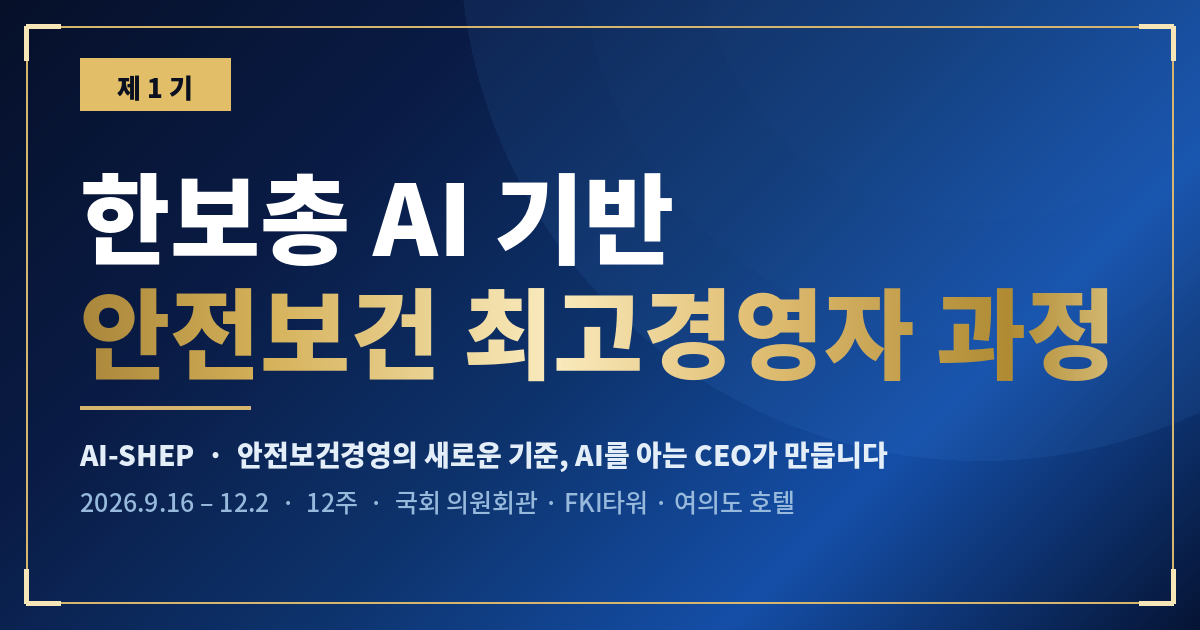
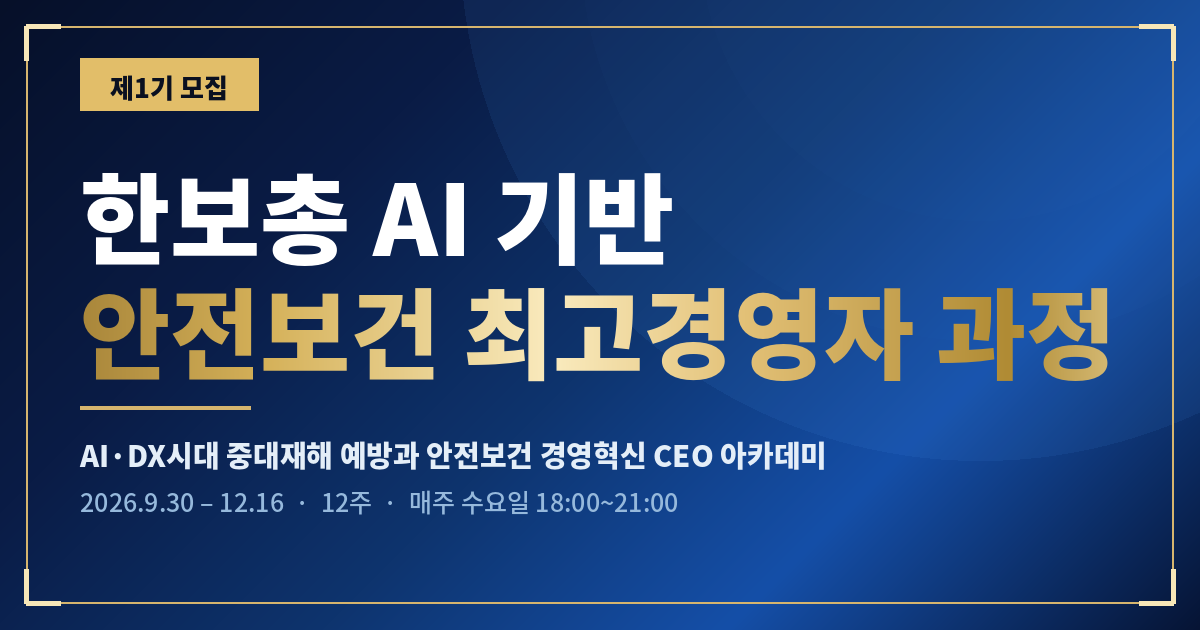
Add files via upload

diff --git a/index.html b/index.html
@@ -4,34 +4,36 @@
 <meta charset="UTF-8" />
 <meta name="viewport" content="width=device-width, initial-scale=1" />
 <title>AI SHEP 2026 | 제1기 한보총 AI 기반 안전보건 최고경영자 과정</title>
-<meta name="description" content="안전보건경영의 새로운 기준, AI를 아는 CEO가 만듭니다. 국회 정책 × AI 기술 × 안전보건 전문성을 연결한 차세대 CEO 아카데미. 2026.9.16~12.2, 12주 과정." />
+<meta name="description" content="안전보건경영의 새로운 기준, AI를 아는 CEO가 만듭니다. 국회 정책 × AI 기술 × 안전보건 전문성을 연결한 차세대 CEO 아카데미. 2026.9.30~12.16, 12주 과정." />
 <link rel="canonical" href="https://aishep-2026.vercel.app/" />
 <link rel="icon" type="image/png" href="/favicon.png" />
+<link rel="preload" as="font" type="font/woff2" href="/fonts/kopub-Bold.woff2" crossorigin />
+<link rel="preload" as="font" type="font/woff2" href="/fonts/kopub-Medium.woff2" crossorigin />
 <meta property="og:type" content="website" />
 <meta property="og:site_name" content="한보총 AI-SHEP" />
 <meta property="og:locale" content="ko_KR" />
 <meta property="og:url" content="https://aishep-2026.vercel.app/" />
 <meta property="og:title" content="제1기 한보총 AI 기반 안전보건 최고경영자 과정" />
-<meta property="og:description" content="AI-SHEP · 안전보건경영의 새로운 기준, AI를 아는 CEO가 만듭니다 · 2026.9.16~12.2 · 12주" />
+<meta property="og:description" content="AI-SHEP · 안전보건경영의 새로운 기준, AI를 아는 CEO가 만듭니다 · 2026.9.30~12.16 · 12주" />
 <meta property="og:image" content="https://aishep-2026.vercel.app/cover.png" />
 <meta property="og:image:width" content="1200" />
 <meta property="og:image:height" content="630" />
 <meta name="twitter:card" content="summary_large_image" />
 <meta name="twitter:title" content="제1기 한보총 AI 기반 안전보건 최고경영자 과정" />
-<meta name="twitter:description" content="AI-SHEP · 안전보건경영의 새로운 기준, AI를 아는 CEO가 만듭니다 · 2026.9.16~12.2 · 12주" />
+<meta name="twitter:description" content="AI-SHEP · 안전보건경영의 새로운 기준, AI를 아는 CEO가 만듭니다 · 2026.9.30~12.16 · 12주" />
 <meta name="twitter:image" content="https://aishep-2026.vercel.app/cover.png" />
 <link rel="stylesheet" as="style" crossorigin href="https://cdn.jsdelivr.net/gh/orioncactus/pretendard@v1.3.9/dist/web/variable/pretendardvariable-dynamic-subset.min.css" />
 <style>
   @font-face{
     font-family:"KoPubWorld Dotum";
-    src:url("https://cdn.jsdelivr.net/gh/CXZ7720/webfonts@main/fonts/KoPubWorldDotum/KoPubWorldDotumBold.woff2") format("woff2"),
-        url("https://cdn.jsdelivr.net/gh/CXZ7720/webfonts@main/fonts/KoPubWorldDotum/KoPubWorldDotumBold.woff") format("woff");
+    src:url("/fonts/kopub-Bold.woff2") format("woff2"),
+        url("https://cdn.jsdelivr.net/gh/CXZ7720/webfonts@main/fonts/KoPubWorldDotum/KoPubWorldDotumBold.woff2") format("woff2");
     font-weight:700;font-style:normal;font-display:swap;
   }
   @font-face{
     font-family:"KoPubWorld Dotum";
-    src:url("https://cdn.jsdelivr.net/gh/CXZ7720/webfonts@main/fonts/KoPubWorldDotum/KoPubWorldDotumMedium.woff2") format("woff2"),
-        url("https://cdn.jsdelivr.net/gh/CXZ7720/webfonts@main/fonts/KoPubWorldDotum/KoPubWorldDotumMedium.woff") format("woff");
+    src:url("/fonts/kopub-Medium.woff2") format("woff2"),
+        url("https://cdn.jsdelivr.net/gh/CXZ7720/webfonts@main/fonts/KoPubWorldDotum/KoPubWorldDotumMedium.woff2") format("woff2");
     font-weight:400 500;font-style:normal;font-display:swap;
   }
 
@@ -184,12 +186,6 @@
   @media(max-width:900px){.info{grid-template-columns:1fr}}
 
   /* curriculum */
-  .track-switch{display:inline-flex;border:1px solid var(--gline);flex-wrap:wrap;background:rgba(0,0,0,.2);max-width:100%}
-  .track-switch button{font-family:var(--font);font-weight:700;font-size:15.5px;background:transparent;color:#B4CBE0;
-    border:0;padding:14px 24px;cursor:pointer;transition:.25s}
-  .track-switch button + button{border-left:1px solid var(--gline)}
-  .track-switch button[aria-selected="true"]{background:linear-gradient(120deg,#F7E7B8,#D8B45A 50%,#A9822E);color:#0A1020}
-  .switch-note{font-size:14.5px;color:var(--dim-2);margin:14px 0 30px}
   .legend{display:flex;gap:22px;flex-wrap:wrap;margin-bottom:34px;font-size:14.5px;color:#B4CBE0}
   .legend i{display:inline-block;width:11px;height:11px;margin-right:9px}
   .legend .lp{background:#63B0EA}.legend .lt{background:#37CBAB}.legend .lc{background:#E6CE8E}
@@ -268,6 +264,7 @@
   .frow .k{font-size:clamp(15px,1.7vw,17.5px)}
   .frow .k small{display:block;font-size:14.5px;color:var(--dim);margin-top:4px}
   .frow .v{font-size:clamp(18px,2.2vw,23px);font-weight:700;white-space:nowrap}
+  .frow .v.acct{font-size:clamp(15px,1.75vw,19px);white-space:normal;text-align:right;color:var(--gold-l)}
   .apply-box{padding:clamp(28px,4vw,42px);text-align:center;position:relative;
     background:linear-gradient(155deg,rgba(79,195,247,.14),rgba(255,255,255,.03));
     border:1px solid rgba(120,180,255,.2);display:flex;flex-direction:column;justify-content:center}
@@ -342,7 +339,7 @@
     </h1>
     <div class="tag-en rise d2">AI-SHEP · AI SAFETY &amp; HEALTH EXECUTIVE PROGRAM</div>
 
-    <p class="hero-lead rise d3">사고 이후 대응이 아닌, 사고 이전 예측의 시대</p>
+    <p class="hero-lead rise d3">AI·DX시대 중대재해 예방과<br>안전보건 경영혁신 CEO 아카데미</p>
 
     <p class="hero-h2 rise d4">안전보건경영의 새로운 기준,<br>AI를 아는 CEO가 만듭니다</p>
 
@@ -359,7 +356,7 @@
           <path d="M28 6l17 7v14c0 12-7 19-17 23C18 46 11 39 11 27V13z"/>
           <path d="M20 30h4l3-8 4 14 3-6h4" stroke-linecap="round" stroke-linejoin="round"/>
         </svg>
-        <h3>AI·DX 기반<br>중대재해 예방</h3>
+        <h3>AI·DX 기반<br>중대재해 예방 전략</h3>
         <p>예측과 예방 중심의<br>안전경영 혁신</p>
       </article>
       <article class="pillar">
@@ -371,8 +368,8 @@
           <line x1="32" y1="27" x2="32" y2="43"/><line x1="38" y1="27" x2="38" y2="43"/>
           <line x1="11" y1="43" x2="45" y2="43"/><line x1="7" y1="49" x2="49" y2="49"/>
         </svg>
-        <h3>국회 정책<br>네트워크</h3>
-        <p>국회의원과 직접 교류<br>정책 제안 기회</p>
+        <h3>국가 정책과<br>산업현장의 연결</h3>
+        <p>현직 국회의원 · AI ·<br>안전보건 전문가 특강</p>
       </article>
       <article class="pillar">
         <svg class="pico" viewBox="0 0 56 56" fill="none" stroke="url(#pg)" stroke-width="2" aria-hidden="true">
@@ -411,7 +408,7 @@
       <div class="card">
         <span class="cap">운영 내용</span>
         <dl class="kv">
-          <dt>기간</dt><dd>2026. 9. 16.(수) ~ 12. 2.(수) 12주 과정</dd>
+          <dt>기간</dt><dd>2026. 9. 30.(수) ~ 12. 16.(수) 12주 과정</dd>
           <dt>시간</dt><dd>매주 수요일 18:00~21:00<br>(18:00~19:00 저녁식사)</dd>
           <dt>장소</dt><dd>호텔(여의도 소재), 국회 의원회관,<br>FKI타워(구 전경련회관) 등</dd>
           <dt>운영기관</dt><dd>(사)한국안전보건단체총연합회</dd>
@@ -438,14 +435,9 @@
     <div class="sec-head">
       <div class="eyebrow">12주 커리큘럼</div>
       <h2>한 주는 <span class="aq">국회</span>에서,<br>다음 주는 <span class="aq">산업 현장</span>에서</h2>
-      <p>정책 강의(국회 의원회관)와 기술 강의(FKI타워)가 번갈아 진행됨. 개강일 기준을 선택하면 주차별 일정 확인 가능.</p>
+      <p>정책 강의(국회 의원회관)와 기술 강의(FKI타워)가 번갈아 진행됨.</p>
     </div>
 
-    <div class="track-switch" role="tablist" aria-label="개강일 선택">
-      <button role="tab" id="tab-a" aria-selected="true" aria-controls="panel" data-track="a">9/16 개강안</button>
-      <button role="tab" id="tab-b" aria-selected="false" aria-controls="panel" data-track="b">9/30 개강안</button>
-    </div>
-    <p class="switch-note">개강일은 확정 시 별도 안내 예정.</p>
 
     <div class="legend">
       <span><i class="lp"></i>국회 의원회관 · 정책</span>
@@ -453,7 +445,7 @@
       <span><i class="lc"></i>호텔 · 기업체</span>
     </div>
 
-    <div class="timeline" id="panel" role="tabpanel" aria-labelledby="tab-a"></div>
+    <div class="timeline" id="panel"></div>
 
     <p class="cur-note">* 프로그램은 사정에 따라 변경될 수 있음. &nbsp;/&nbsp; ** 해외연수(일본)는 12월 또는 1월 중 별도 진행.</p>
   </div>
@@ -474,14 +466,14 @@
         <div class="srow"><div class="t au">21:00–22:00</div><div><h4>네트워킹</h4><p>원우 간 자유 교류</p></div></div>
       </div>
       <aside class="card">
-        <span class="cap">과정 구성</span>
-        <dl class="kv">
-          <dt>입학식</dt><dd>한보총 회장·국회의원 축사, 원우 소개</dd>
-          <dt>특강</dt><dd>국회의원 · AI 전문가 · 안전보건 전문가</dd>
-          <dt>산업시찰</dt><dd>안전보건 우수기업 시찰 1회</dd>
-          <dt>해외연수</dt><dd>일본 1회 (12월 또는 1월 중)</dd>
-          <dt>수료식</dt><dd>수료증 수여, 우수 수료자 시상</dd>
-        </dl>
+        <span class="cap">프로그램</span>
+        <ul class="qual">
+          <li>입학식 및 수료식</li>
+          <li>국회의원, AI 전문가, 안전보건 전문가 특강</li>
+          <li>국내 산업시찰 (1회)</li>
+          <li>해외 연수 (1회, 일본)</li>
+          <li>참여자 네트워크</li>
+        </ul>
       </aside>
     </div>
   </div>
@@ -555,16 +547,16 @@
     <div class="fees">
       <div class="fee-main">
         <div class="fee-hd">
-          <div class="n au">등록비 500만원</div>
+          <div class="n au">등록금 500만원</div>
           <div class="l">12주 정규 과정 · 만찬 · 국내 산업시찰 포함</div>
         </div>
         <div class="frow">
-          <div class="k">한보총 회원단체 20% 할인<small>회원단체 소속 임직원 적용</small></div>
-          <div class="v au">400만원</div>
+          <div class="k">해외연수비<small>일본 · 별도 납부</small></div>
+          <div class="v">150만원 별도</div>
         </div>
         <div class="frow">
-          <div class="k">해외연수비<small>일본 · 12월 또는 1월 중 · 별도 납부 가능</small></div>
-          <div class="v">150만원 별도</div>
+          <div class="k">납부 계좌<small>(사)한국안전보건단체총연합회</small></div>
+          <div class="v acct">우리은행 1005-804-786229</div>
         </div>
       </div>
       <aside class="apply-box">
@@ -609,7 +601,7 @@
 var P="국회 의원회관",T="FKI타워",H="호텔",C="기업체";
 var lectures={
   open:{side:"center",place:H,title:"입학식",details:["입학식 및 축사","과정 소개, 원우 소개"],who:"한보총 회장 · 국회의원"},
-  visit:{side:"center",place:C,title:"국내 산업시찰",details:["안전보건 우수기업 시찰","일정 변경: 10/16(금)~10/17(토) 진행"],who:""},
+  visit:{side:"center",place:C,title:"국내 산업시찰",details:["안전보건 우수기업 시찰","일정은 별도 안내"],who:""},
   policy1:{side:"policy",place:P,title:"대한민국 산업안전보건 정책의 미래",details:["국회 환경노동위원회 정책과제","산업현장 안전규제 전망"],who:"국회 환경노동위원회 소속 국회의원"},
   tech1:{side:"tech",place:T,title:"AI 기반 스마트 안전관리 시스템 구축 전략",details:["AI CCTV · 스마트 PPE · IoT 센서 활용","실시간 위험감지 기술 사례"],who:"AI 전문가"},
   policy2:{side:"policy",place:P,title:"형사소송법 개정에 따른 중대재해처벌법 향후 방향",details:["CEO 법적 책임 범위","실제 판례 분석","최고경영자의 대응전략"],who:"법조인 출신 국회의원"},
@@ -621,20 +613,15 @@ var lectures={
   policy5:{side:"policy",place:P,title:"국가 재난·산업안전 컨트롤타워 정책",details:["재난대응 체계","국가 안전 거버넌스 개선 과제"],who:"행정안전위원회 국회의원"},
   close:{side:"center",place:H,title:"수료식",details:["수료식 및 축사","수료증 수여"],who:"한보총 회장 · 국회의원"}
 };
-var orderA=["open","visit","policy1","tech1","policy2","tech2","policy3","tech3","policy4","tech4","policy5","close"];
-var orderB=["open","policy1","visit","tech1","policy2","tech2","policy3","tech3","policy4","tech4","policy5","close"];
-var tracks={
-  a:{dates:["9/16","9/23","9/30","10/7","10/14","10/21","10/28","11/4","11/11","11/18","11/25","12/2"],keys:orderA},
-  b:{dates:["9/30","10/7","10/14","10/21","10/28","11/4","11/11","11/18","11/25","12/2","12/9","12/16"],keys:orderB}
-};
+var order=["open","policy1","visit","tech1","policy2","tech2","policy3","tech3","policy4","tech4","policy5","close"];
+var dates=["9/30","10/7","10/14","10/21","10/28","11/4","11/11","11/18","11/25","12/2","12/9","12/16"];
 var panel=document.getElementById("panel");
-function render(key){
-  var tr=tracks[key];
-  panel.innerHTML=tr.keys.map(function(k,i){
+function render(){
+  panel.innerHTML=order.map(function(k,i){
     var l=lectures[k];
     return '<article class="wk '+l.side+'">'+
       '<div class="wk-top"><span class="wk-n au">'+String(i+1).padStart(2,"0")+'</span>'+
-      '<span class="wk-date">'+tr.dates[i]+'</span><span class="wk-place">'+l.place+'</span></div>'+
+      '<span class="wk-date">'+dates[i]+'</span><span class="wk-place">'+l.place+'</span></div>'+
       '<h3>'+l.title+'</h3>'+
       '<ul>'+l.details.map(function(d){return '<li>'+d+'</li>';}).join("")+'</ul>'+
       (l.who?'<div class="who"><span>강사</span>'+l.who+'</div>':"")+
@@ -654,17 +641,9 @@ function observe(){
   },{threshold:.12,rootMargin:"0px 0px -40px 0px"});
   items.forEach(function(el){io.observe(el)});
 }
-document.querySelectorAll(".track-switch button").forEach(function(b){
-  b.addEventListener("click",function(){
-    document.querySelectorAll(".track-switch button").forEach(function(x){x.setAttribute("aria-selected","false")});
-    b.setAttribute("aria-selected","true");
-    panel.setAttribute("aria-labelledby",b.id);
-    render(b.dataset.track);
-  });
-});
 var nav=document.getElementById("nav");
 window.addEventListener("scroll",function(){nav.classList.toggle("scrolled",window.scrollY>20)},{passive:true});
-render("a");
+render();
 </script>
 </body>
 </html>
